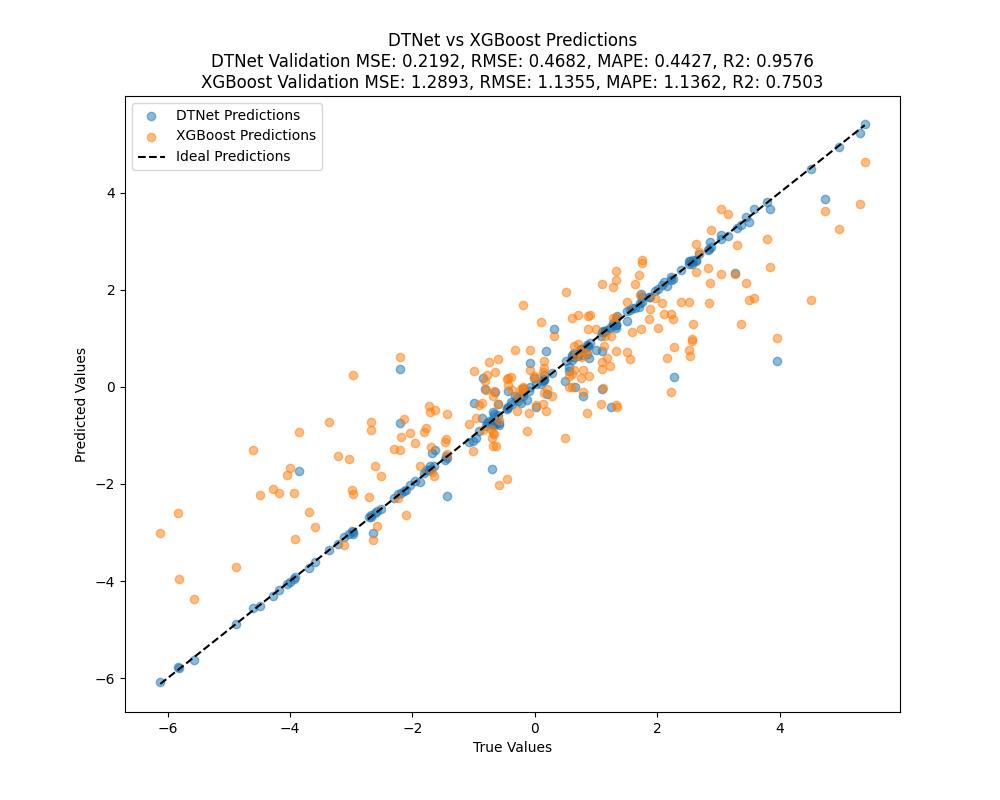
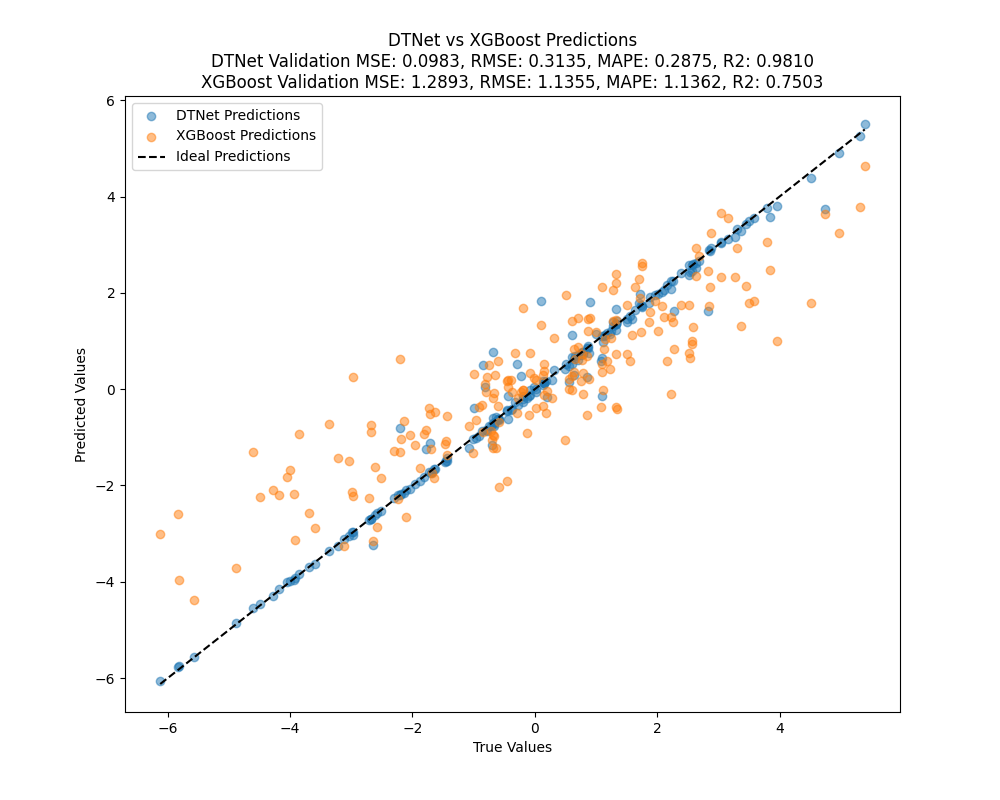
added more metrics

diff --git a/examples/dummy_data_comparison.py b/examples/dummy_data_comparison.py
@@ -13,7 +13,8 @@ BASE_DIR = Path(__file__).resolve().parents[1]
 if str(BASE_DIR) not in sys.path:
     sys.path.append(str(BASE_DIR))
     
-from src.dtsemnet_custom import DTSemNet
+# from src.dtsemnet_custom import DTSemNet
+from src.dtsemnet import DTSemNet
 import torch
 import torch.nn as nn
 import numpy as np
@@ -80,21 +81,33 @@ if __name__ == "__main__":
     x_val = x[tr_samples:]
     y_val = y[tr_samples:]
     n_epochs = 5000
+    
+    train_dataset = torch.utils.data.TensorDataset(x_train, y_train)
+    train_loader = torch.utils.data.DataLoader(train_dataset, batch_size=64, shuffle=True)
+    val_dataset = torch.utils.data.TensorDataset(x_val, y_val)
+    val_loader = torch.utils.data.DataLoader(val_dataset, batch_size=64, shuffle=False)
     for epoch in range(n_epochs):
-        model.train()
-        optimizer.zero_grad()
-        outputs = model(x_train)
-        loss = criterion(outputs, y_train)
-        loss.backward()
-        optimizer.step()
+        total_loss = 0.0
+        for x_batch, y_batch in train_loader:
+            model.train()
+            optimizer.zero_grad()
+            outputs = model(x_batch)
+            loss = criterion(outputs, y_batch)
+            loss.backward()
+            optimizer.step()
+            total_loss += loss.item() * x_batch.size(0)
 
-        model.eval()
-        with torch.no_grad():
-            val_outputs = model(x_val)
-            val_loss = criterion(val_outputs, y_val)        
-
+        total_loss /= len(train_loader)
+        total_val_loss = 0.0
+        for x_batch, y_batch in val_loader:
+            model.eval()
+            with torch.no_grad():
+                val_outputs = model(x_batch)
+                val_loss = criterion(val_outputs, y_batch)
+                total_val_loss += val_loss.item() * x_batch.size(0)
+        total_val_loss /= len(val_loader)
         if (epoch + 1) % 100 == 0:
-            print(f"Epoch [{epoch + 1}/{n_epochs}], Loss: {loss.item():.4f}, Val Loss: {val_loss.item():.4f}")
+            print(f"Epoch [{epoch + 1}/{n_epochs}], Loss: {total_loss:.4f}, Val Loss: {total_val_loss:.4f}")
 
     model.eval()
     y_val_pred = model(x_val)
